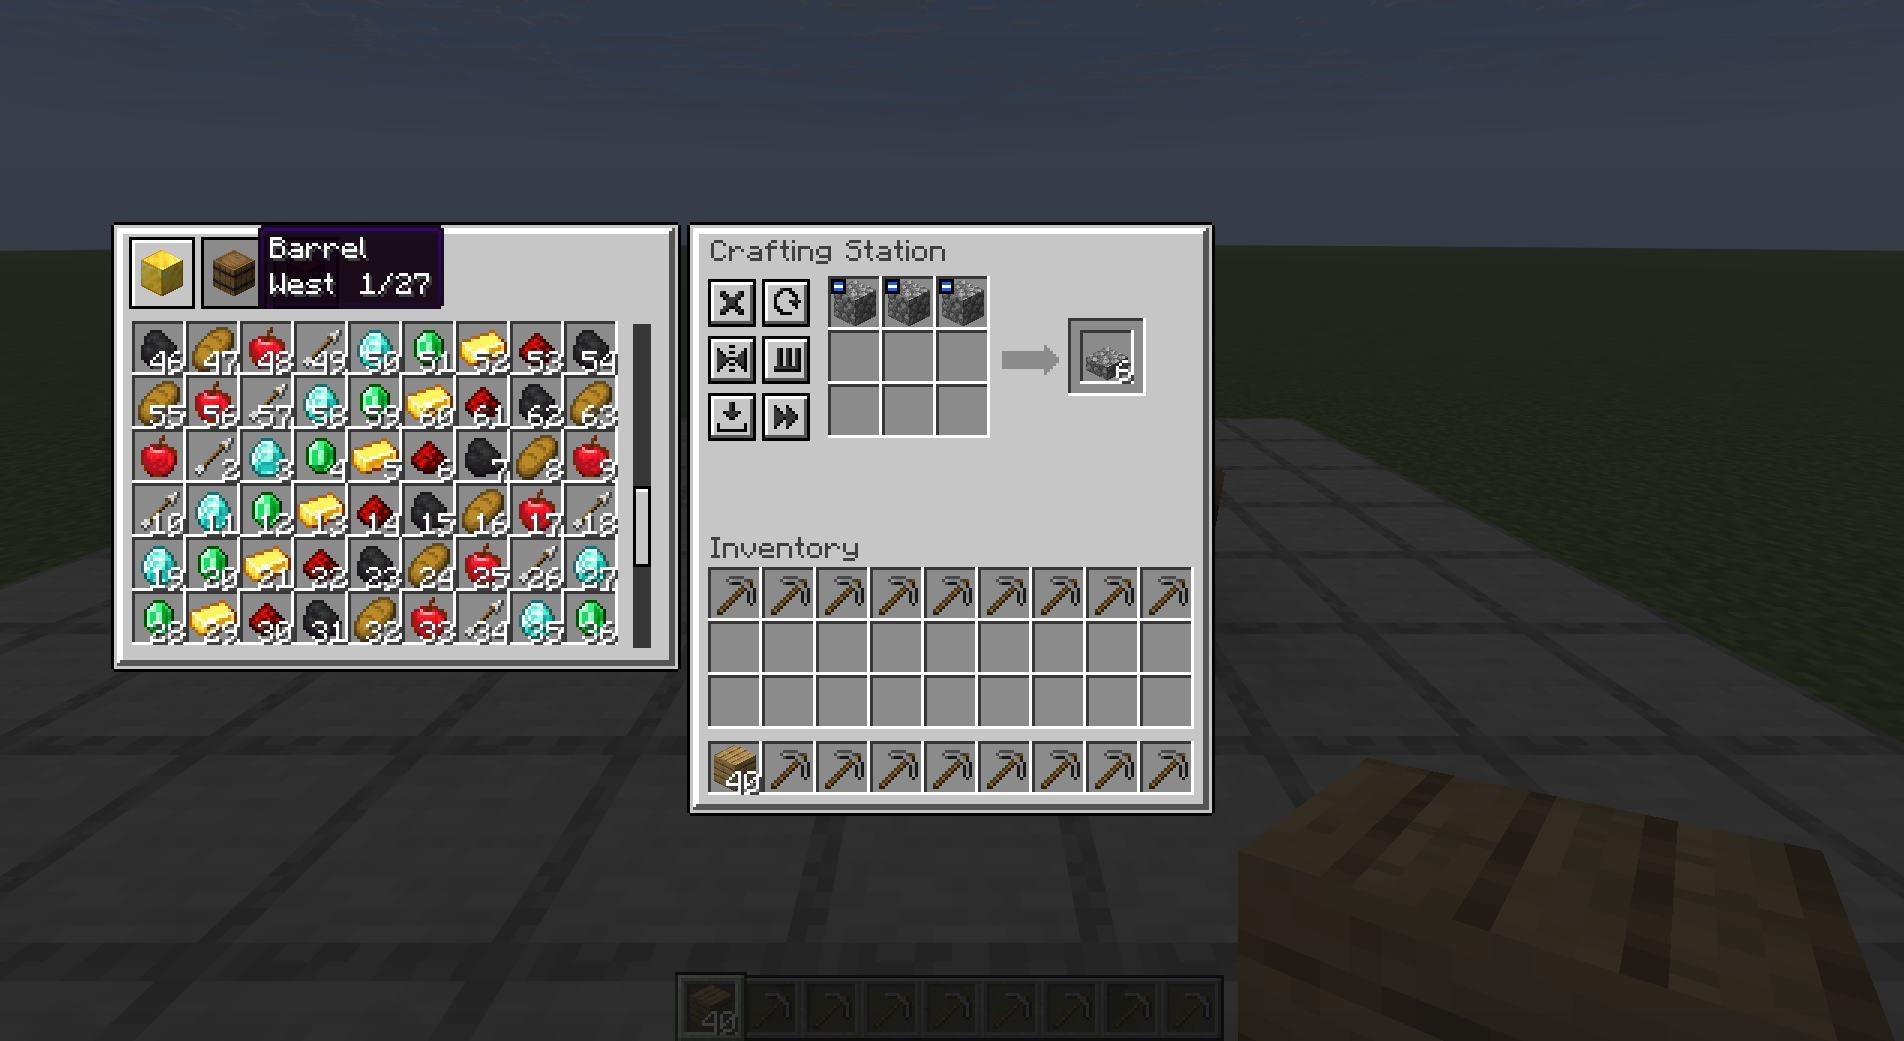
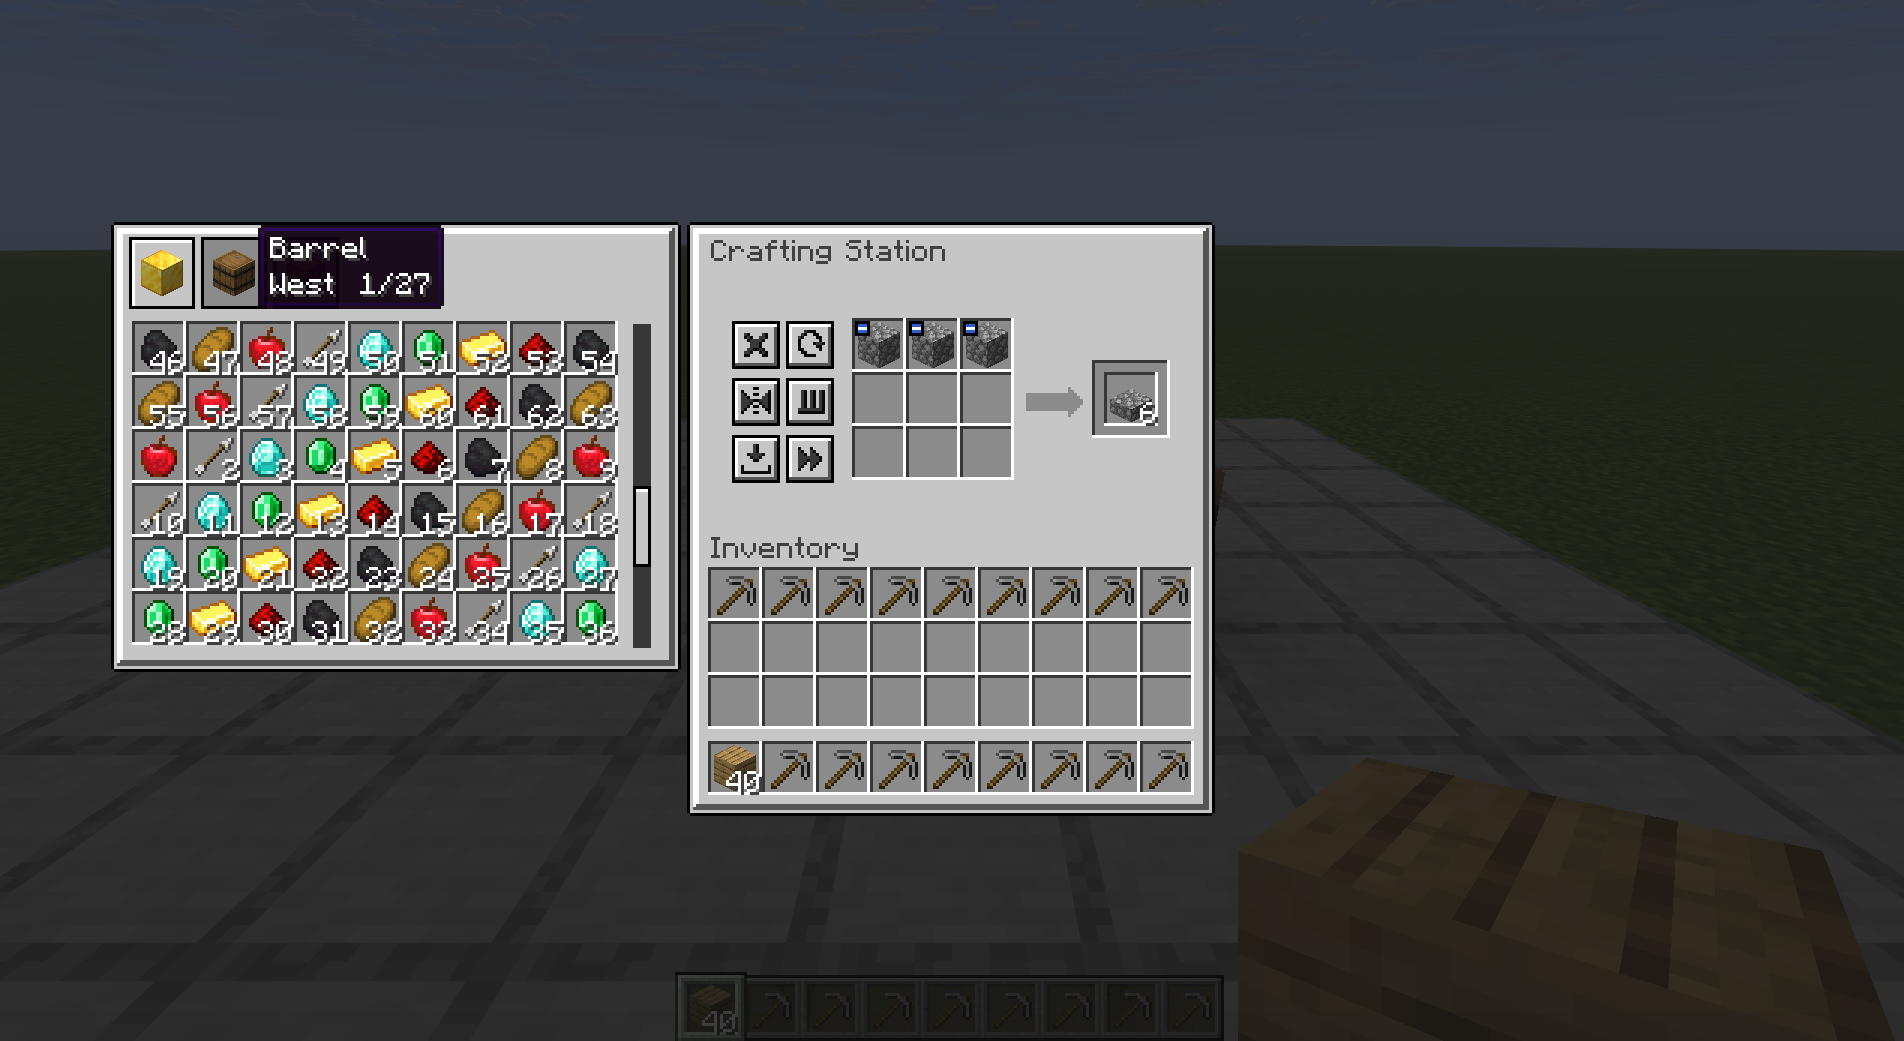
Center the crafting block (buttons, grid, arrow, result) in the screen

Changed region(s): [[0.3718, 0.2459, 0.6197, 0.4611]]

diff --git a/version-26.2/src/main/java/com/itmecasey/barelycrafting/client/StationScreen.java b/version-26.2/src/main/java/com/itmecasey/barelycrafting/client/StationScreen.java
@@ -50,7 +50,7 @@ public class StationScreen extends AbstractContainerScreen<StationMenu> {
                 continue;
             }
             int id = s.id;
-            addRenderableWidget(new IconButton(leftPos + 7 + (row % 2) * 18, topPos + StationMenu.GRID_Y + (row / 2) * 19, s.icon,
+            addRenderableWidget(new IconButton(leftPos + 15 + (row % 2) * 18, topPos + StationMenu.GRID_Y + (row / 2) * 19, s.icon,
                     Component.translatable("gui.barelycrafting.tip_" + s.key), s.usable, () -> press(id)));
             row++;
         }
@@ -132,8 +132,8 @@ public class StationScreen extends AbstractContainerScreen<StationMenu> {
             inset(g, leftPos + s.x - 1, topPos + s.y - 1, 18, 18);
         }
         // The arrow from the grid to the result.
-        int ax = leftPos + 105;
-        int ay = topPos + 41;
+        int ax = leftPos + 113;
+        int ay = topPos + 55;
         g.fill(ax, ay + 2, ax + 14, ay + 8, th().arrow());
         for (int i = 0; i < 6; i++) {
             g.fill(ax + 14 + i, ay + i, ax + 15 + i, ay + 10 - i, th().arrow());

diff --git a/version-26.3/src/main/java/com/itmecasey/barelycrafting/client/StationScreen.java b/version-26.3/src/main/java/com/itmecasey/barelycrafting/client/StationScreen.java
@@ -50,7 +50,7 @@ public class StationScreen extends AbstractContainerScreen<StationMenu> {
                 continue;
             }
             int id = s.id;
-            addRenderableWidget(new IconButton(leftPos + 7 + (row % 2) * 18, topPos + StationMenu.GRID_Y + (row / 2) * 19, s.icon,
+            addRenderableWidget(new IconButton(leftPos + 15 + (row % 2) * 18, topPos + StationMenu.GRID_Y + (row / 2) * 19, s.icon,
                     Component.translatable("gui.barelycrafting.tip_" + s.key), s.usable, () -> press(id)));
             row++;
         }
@@ -132,8 +132,8 @@ public class StationScreen extends AbstractContainerScreen<StationMenu> {
             inset(g, leftPos + s.x - 1, topPos + s.y - 1, 18, 18);
         }
         // The arrow from the grid to the result.
-        int ax = leftPos + 105;
-        int ay = topPos + 41;
+        int ax = leftPos + 113;
+        int ay = topPos + 55;
         g.fill(ax, ay + 2, ax + 14, ay + 8, th().arrow());
         for (int i = 0; i < 6; i++) {
             g.fill(ax + 14 + i, ay + i, ax + 15 + i, ay + 10 - i, th().arrow());

diff --git a/version-26.2/src/main/java/com/itmecasey/barelycrafting/menu/StationMenu.java b/version-26.2/src/main/java/com/itmecasey/barelycrafting/menu/StationMenu.java
@@ -41,10 +41,10 @@ public class StationMenu extends AbstractContainerMenu {
     public static final int GRID = 9;
     public static final int RESULT = 9;
     public static final int FIRST_PLAYER = 10;
-    public static final int GRID_X = 48;
-    public static final int GRID_Y = 19;
-    public static final int RESULT_X = 132;
-    public static final int RESULT_Y = 37;
+    public static final int GRID_X = 56;
+    public static final int GRID_Y = 33;
+    public static final int RESULT_X = 140;
+    public static final int RESULT_Y = 51;
     public static final int PLAYER_Y = 116;
     public static final int PLAYER_END = FIRST_PLAYER + 36;
     /** The Connected panel shows the selected storage as a window of 9 by 6 slots; tabs pick the storage, the wheel scrolls it. */

diff --git a/version-26.3/src/main/java/com/itmecasey/barelycrafting/menu/StationMenu.java b/version-26.3/src/main/java/com/itmecasey/barelycrafting/menu/StationMenu.java
@@ -41,10 +41,10 @@ public class StationMenu extends AbstractContainerMenu {
     public static final int GRID = 9;
     public static final int RESULT = 9;
     public static final int FIRST_PLAYER = 10;
-    public static final int GRID_X = 48;
-    public static final int GRID_Y = 19;
-    public static final int RESULT_X = 132;
-    public static final int RESULT_Y = 37;
+    public static final int GRID_X = 56;
+    public static final int GRID_Y = 33;
+    public static final int RESULT_X = 140;
+    public static final int RESULT_Y = 51;
     public static final int PLAYER_Y = 116;
     public static final int PLAYER_END = FIRST_PLAYER + 36;
     /** The Connected panel shows the selected storage as a window of 9 by 6 slots; tabs pick the storage, the wheel scrolls it. */

diff --git a/version-26.2/src/dev/java/com/itmecasey/barelycrafting/dev/ShotTour.java b/version-26.2/src/dev/java/com/itmecasey/barelycrafting/dev/ShotTour.java
@@ -333,7 +333,7 @@ public final class ShotTour {
         }
         int left = station.guiLeft();
         int top = station.guiTop();
-        moveMouseGui(left + 7 + (n % 2) * 18 + 8, top + 19 + (n / 2) * 19 + 8);
+        moveMouseGui(left + 15 + (n % 2) * 18 + 8, top + 33 + (n / 2) * 19 + 8);
     }
 
     private static void hoverGuiAway() {

diff --git a/version-26.3/src/dev/java/com/itmecasey/barelycrafting/dev/ShotTour.java b/version-26.3/src/dev/java/com/itmecasey/barelycrafting/dev/ShotTour.java
@@ -333,7 +333,7 @@ public final class ShotTour {
         }
         int left = station.guiLeft();
         int top = station.guiTop();
-        moveMouseGui(left + 7 + (n % 2) * 18 + 8, top + 19 + (n / 2) * 19 + 8);
+        moveMouseGui(left + 15 + (n % 2) * 18 + 8, top + 33 + (n / 2) * 19 + 8);
     }
 
     private static void hoverGuiAway() {
